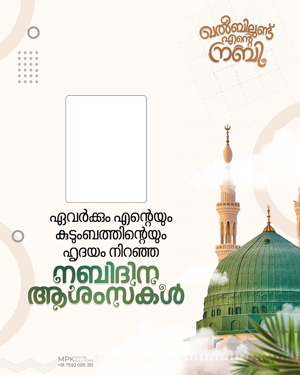
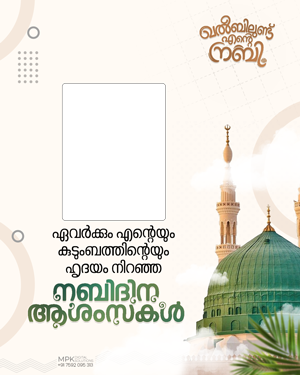
Meelad Frame Created - Common 0.0.2

Changed region(s): [[0.09, 0.2053, 0.63, 0.88], [0.48, 0.264, 0.51, 0.528]]

diff --git a/application/twibbon/g_meelad/index.html b/application/twibbon/g_meelad/index.html
@@ -9,8 +9,8 @@
   <meta property="og:description" content="Create your personalized photo frame for Meelad Program 2026">
   <meta property="og:image" content="https://https://mpk.work.gd/application/twibbon/g_meelad/participant_frame-thumb.png">
   <meta property="og:url" content="https://https://mpk.work.gd/application/twibbon/g_meelad/">
-  <meta property="og:image:width" content="368" />
-<meta property="og:image:height" content="630" />
+  <meta property="og:image:width" content="300" />
+<meta property="og:image:height" content="375" />
   <meta property="og:type" content="image/png">
   
   <!-- Twitter Card -->
